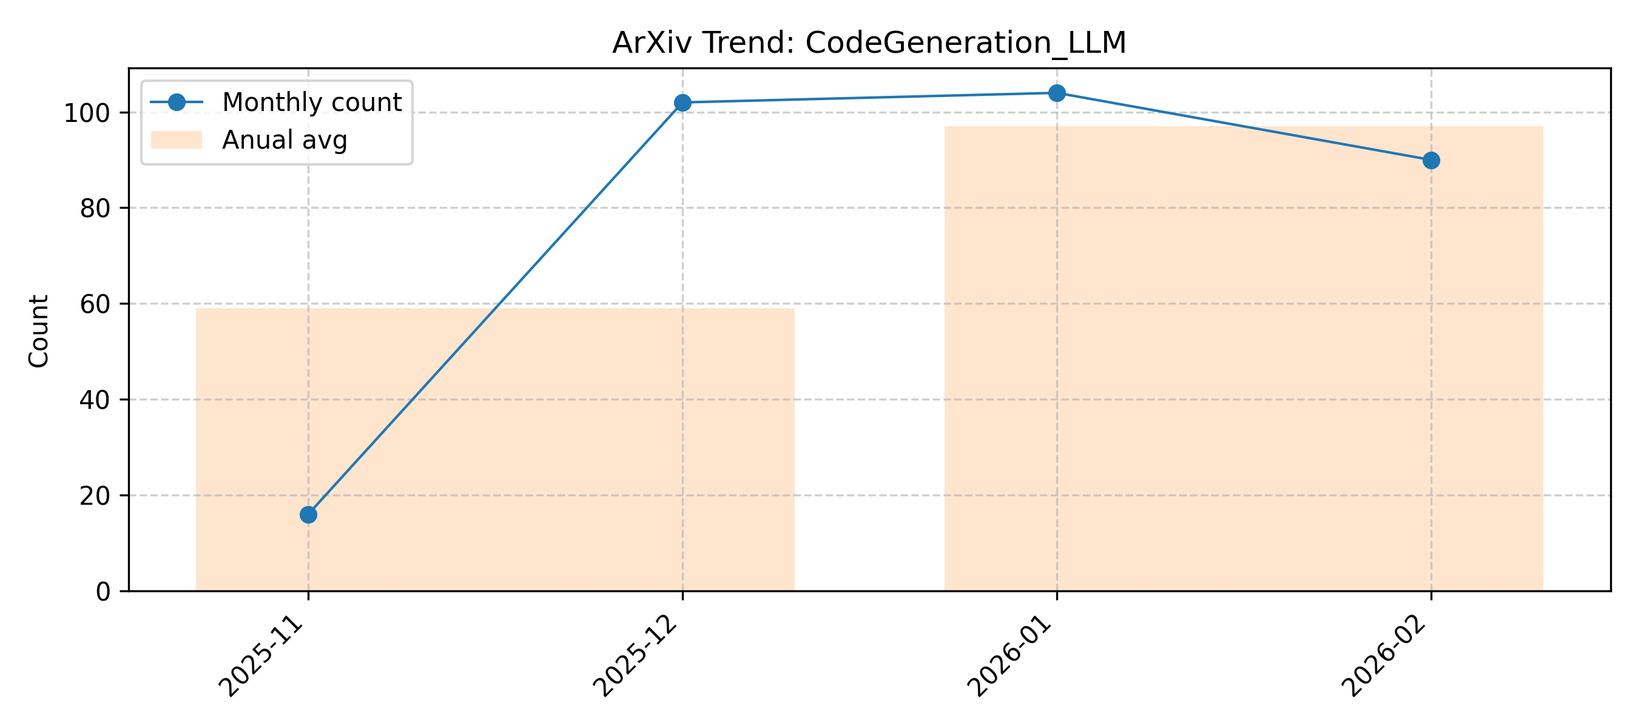
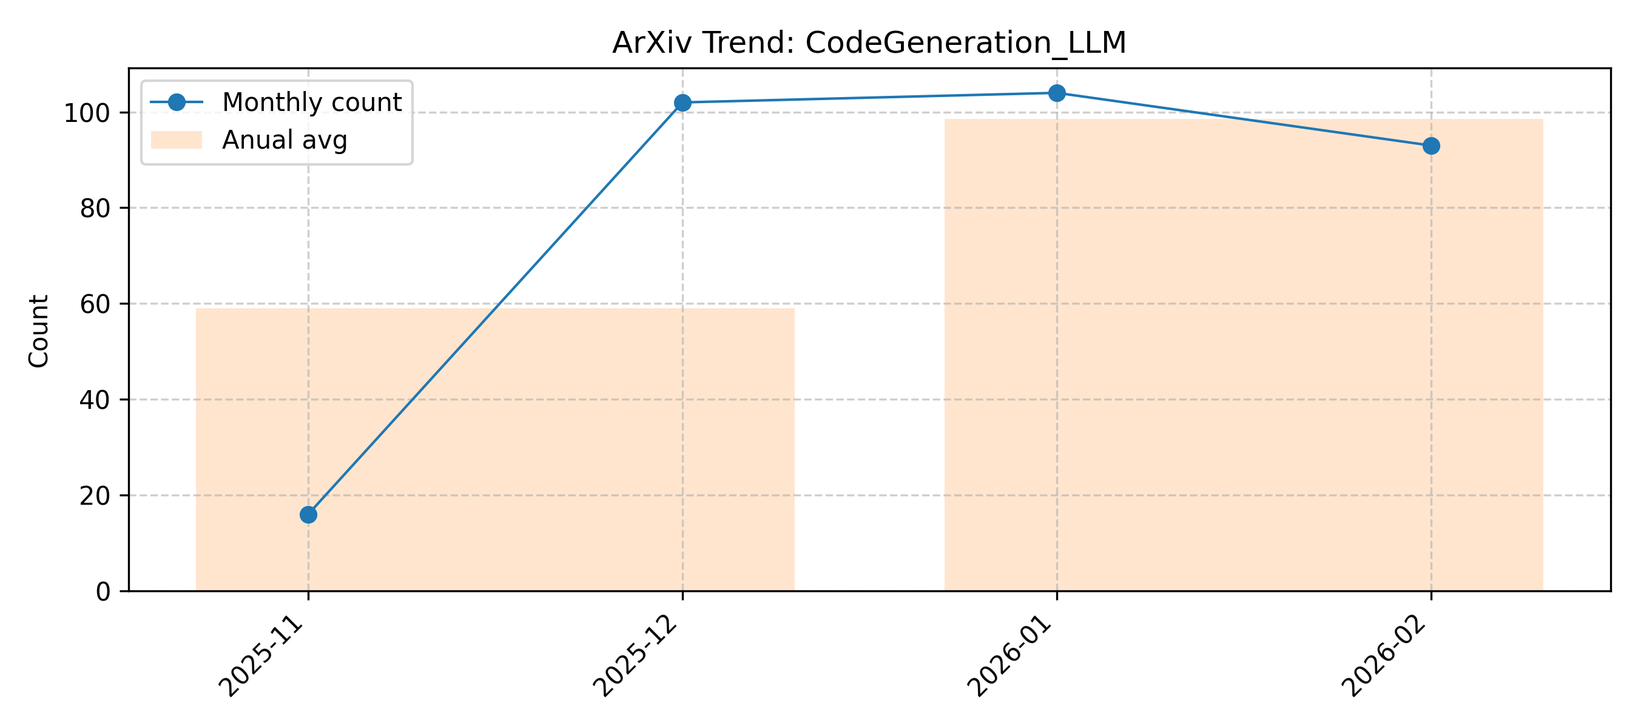
Auto update: 2026-02-28 08:00:01

Changed region(s): [[0.56, 0.1233, 0.9333, 0.2467]]

diff --git a/CodeGeneration_LLM.md b/CodeGeneration_LLM.md
@@ -1,6 +1,6 @@
 # CodeGeneration_LLM
 
-> Updated on 2026.02.27
+> Updated on 2026.02.28
 
 [🔙 Back to Index](README.md)
 
@@ -8,8 +8,11 @@
 
 | Date | Title | Categories | Abstract | PDF | Code |
 |:---|:---|:---|:---|:---|:---|
+|**2026-02-26**|**CL4SE: A Context Learning Benchmark For Software Engineering Tasks**|cs.SE| <details><summary>Full Abstract</summary>Context engineering has emerged as a pivotal paradigm for unlocking the potential of Large Language Models (LLMs) in Software Engineering (SE) tasks, enabling performance gains at test time without model fine-tuning. Despite its success, existing research lacks a systematic taxonomy of SE-specific context types and a dedicated benchmark to quantify the heterogeneous effects of different contexts across core SE workflows. To address this gap, we propose CL4SE (Context Learning for Software Engineering), a comprehensive benchmark featuring a fine-grained taxonomy of four SE-oriented context types (interpretable examples, project-specific context, procedural decision-making context, and positive & negative context), each mapped to a representative task (code generation, code summarization, code review, and patch correctness assessment). We construct high-quality datasets comprising over 13,000 samples from more than 30 open-source projects and evaluate five mainstream LLMs across nine metrics. Extensive experiments demonstrate that context learning yields an average performance improvement of 24.7% across all tasks. Specifically, procedural context boosts code review performance by up to 33% (Qwen3-Max), mixed positive-negative context improves patch assessment by 30% (DeepSeek-V3), project-specific context increases code summarization BLEU by 14.78% (GPT-Oss-120B), and interpretable examples enhance code generation PASS@1 by 5.72% (DeepSeek-V3). CL4SE establishes the first standardized evaluation framework for SE context learning, provides actionable empirical insights into task-specific context design, and releases a large-scale dataset to facilitate reproducible research in this domain.</details>|[2602.23047v1](http://arxiv.org/abs/2602.23047v1)| null|
+|**2026-02-25**|**BrepCoder: A Unified Multimodal Large Language Model for Multi-task B-rep Reasoning**|cs.LG| <details><summary>Full Abstract</summary>Recent advancements in deep learning have actively addressed complex challenges within the Computer-Aided Design (CAD) domain.However, most existing approaches rely on task-specifi c models requiring structural modifi cations for new tasks, and they predominantly focus on point clouds or images rather than the industry-standard Boundary Representation (B-rep) format. To address these limitations, we propose BrepCoder, a unifi ed Multimodal Large Language Model (MLLM) that performs diverse CAD tasks from B-rep inputs. By leveraging the code generation capabilities of Large Language Models (LLMs), we convert CAD modeling sequences into Python-like code and align them with B-rep. We then adopt a two-stage training strategy: First, pre-training on reverse engineering to learn geometric features and design logic. Second, eff ectively extending the model to various downstream tasks such as completion, error correction, and CAD-QA. Consequently, by interpreting B-rep as structural code, BrepCoder achieves superior generalization across diverse tasks, demonstrating its potential as a general-purpose CAD agent.</details>|[2602.22284v1](http://arxiv.org/abs/2602.22284v1)| null|
+|**2026-02-24**|**From Prompts to Performance: Evaluating LLMs for Task-based Parallel Code Generation**|cs.PL, cs.AI, cs.DC| <details><summary>Full Abstract</summary>Large Language Models (LLM) show strong abilities in code generation, but their skill in creating efficient parallel programs is less studied. This paper explores how LLMs generate task-based parallel code from three kinds of input prompts: natural language problem descriptions, sequential reference implementations, and parallel pseudo code. We focus on three programming frameworks: OpenMP Tasking, C++ standard parallelism, and the asynchronous many-task runtime HPX. Each framework offers different levels of abstraction and control for task execution. We evaluate LLM-generated solutions for correctness and scalability. Our results reveal both strengths and weaknesses of LLMs with regard to problem complexity and framework. Finally, we discuss what these findings mean for future LLM-assisted development in high-performance and scientific computing.</details>|[2602.22240v1](http://arxiv.org/abs/2602.22240v1)| null|
 |**2026-02-25**|**An Evaluation of Context Length Extrapolation in Long Code via Positional Embeddings and Efficient Attention**|cs.SE, cs.AI| <details><summary>Full Abstract</summary>The rapid advancement of large language models (LLMs) has led to a significant increase in automated tools in the software engineering, capable of performing various code-related tasks such as code generation, completion, and translation. Despite these advancements, its effectiveness is constrained by fixed context lengths, limiting its ability to generalize across long, domain-specific code sequences. To address this challenge, we investigate zero-shot, inference-only methods aimed at improving position encodings and optimizing attention mechanisms. Our goal is to provide a thorough analysis of current approaches that facilitate context length extrapolation in code, particularly in the context of long code completion tasks.</details>|[2602.21800v1](http://arxiv.org/abs/2602.21800v1)| null|
-|**2026-02-24**|**Why Pass@k Optimization Can Degrade Pass@1: Prompt Interference in LLM Post-training**|cs.LG, cs.AI| <details><summary>Full Abstract</summary>Pass@k is a widely used performance metric for verifiable large language model tasks, including mathematical reasoning, code generation, and short-answer reasoning. It defines success if any of $k$ independently sampled solutions passes a verifier. This multi-sample inference metric has motivated inference-aware fine-tuning methods that directly optimize pass@$k$. However, prior work reports a recurring trade-off: pass@k improves while pass@1 degrades under such methods. This trade-off is practically important because pass@1 often remains a hard operational constraint due to latency and cost budgets, imperfect verifier coverage, and the need for a reliable single-shot fallback. We study the origin of this trade-off and provide a theoretical characterization of when pass@k policy optimization can reduce pass@1 through gradient conflict induced by prompt interference. We show that pass@$k$ policy gradients can conflict with pass@1 gradients because pass@$k$ optimization implicitly reweights prompts toward low-success prompts; when these prompts are what we term negatively interfering, their upweighting can rotate the pass@k update direction away from the pass@1 direction. We illustrate our theoretical findings with large language model experiments on verifiable mathematical reasoning tasks.</details>|[2602.21189v1](http://arxiv.org/abs/2602.21189v1)| null|
+|**2026-02-26**|**Why Pass@k Optimization Can Degrade Pass@1: Prompt Interference in LLM Post-training**|cs.LG, cs.AI| <details><summary>Full Abstract</summary>Pass@k is a widely used performance metric for verifiable large language model tasks, including mathematical reasoning, code generation, and short-answer reasoning. It defines success if any of $k$ independently sampled solutions passes a verifier. This multi-sample inference metric has motivated inference-aware fine-tuning methods that directly optimize pass@$k$. However, prior work reports a recurring trade-off: pass@k improves while pass@1 degrades under such methods. This trade-off is practically important because pass@1 often remains a hard operational constraint due to latency and cost budgets, imperfect verifier coverage, and the need for a reliable single-shot fallback. We study the origin of this trade-off and provide a theoretical characterization of when pass@k policy optimization can reduce pass@1 through gradient conflict induced by prompt interference. We show that pass@$k$ policy gradients can conflict with pass@1 gradients because pass@$k$ optimization implicitly reweights prompts toward low-success prompts; when these prompts are what we term negatively interfering, their upweighting can rotate the pass@k update direction away from the pass@1 direction. We illustrate our theoretical findings with large language model experiments on verifiable mathematical reasoning tasks.</details>|[2602.21189v2](http://arxiv.org/abs/2602.21189v2)| null|
 |**2026-02-24**|**Unseen-Codebases-Domain Data Synthesis and Training Based on Code Graphs**|cs.SE| <details><summary>Full Abstract</summary>In the context of newly release software frameworks, large language models (LLMs) often exhibit poor performance and a high rate of hallucination, as they are not exposed to such environments during training. Although inference-time augmentation techniques such as retrieval-augmented generation (RAG) can partially mitigate hallucinations, knowledge injection through prompting alone is insufficient to enable models to fully understand the intrinsic relationships among different components of a codebase, or to reason about the correct compositions and apply. Although explicit knowledge injection can be achieved through post-training, compared with public code domains, unseen codebases typically provide only source code and lack large volumes of high-quality, usage-oriented code that can be directly leveraged as training data. Consequently, existing data synthesis approaches are insufficient to adequately capture unseen codebases usage scenarios when restricted to source code alone. To address these challenges, we propose UCD-Training, a two-stage training framework for reasoning-aware data synthesis grounded in a code graph constructed from unseen codebases. UCD-Training first parses the source code to build a code graph, then conducts dependency-preserving continued pretraining (CPT) using file-level dependency data, followed by graph-grounded supervised fine-tuning (SFT) on three types of synthesized data augmented with explicit reasoning traces: (1) single-hop relation reasoning data, (2) compositional API reasoning data, and (3) codebase utilization data. We further introduce a new benchmark, UnseenCodeBench, for code generation on unseen codebases and conduct comprehensive experiments across multiple codebases.</details>|[2602.20799v1](http://arxiv.org/abs/2602.20799v1)| null|
 |**2026-02-24**|**ID-LoRA: Efficient Low-Rank Adaptation Inspired by Matrix Interpolative Decomposition**|cs.CL| <details><summary>Full Abstract</summary>LoRA has become a universal Parameter-Efficient Fine-Tuning (PEFT) technique that equips Large Language Models (LLMs) to adapt quickly to new tasks. However, when these models are scaled up, even the latest LoRA variants still introduce considerable overhead in trainable parameters. Conversely, aggressively lowering the rank to curb this overhead markedly degrades performance in complex multi-task settings. We propose ID-LoRA, a novel PEFT framework that breaks the trade-off. Its core innovation lies in extracting and reusing clustered parameter groups from the pretrained weight matrix. These groups are then used to form multiple low-rank components, all of which share only a single initialized trainable low-rank matrix. This approach cuts the number of trainable parameters while keeping the model's capacity intact. We evaluate ID-LoRA on five diverse benchmarks: Mathematical Reasoning, Code Generation, MMLU, CommonsenseQA, and Safety Alignment. ID-LoRA outperforms both full fine-tuning and existing PEFT baselines (e.g., LoRA, DoRA, HydraLoRA) while using up to 46% fewer trainable parameters than the standard LoRA. In multi-task scenarios, it surpasses LoRA and its recent variants (e.g., DoRA and HydraLoRA) on both Code and MMLU tasks, yet requires only 54% of the trainable parameters demanded by the conventional LoRA.</details>|[2602.20727v1](http://arxiv.org/abs/2602.20727v1)| null|
 |**2026-02-23**|**CodeHacker: Automated Test Case Generation for Detecting Vulnerabilities in Competitive Programming Solutions**|cs.SE, cs.AI, cs.CR| <details><summary>Full Abstract</summary>The evaluation of Large Language Models (LLMs) for code generation relies heavily on the quality and robustness of test cases. However, existing benchmarks often lack coverage for subtle corner cases, allowing incorrect solutions to pass. To bridge this gap, we propose CodeHacker, an automated agent framework dedicated to generating targeted adversarial test cases that expose latent vulnerabilities in program submissions. Mimicking the hack mechanism in competitive programming, CodeHacker employs a multi-strategy approach, including stress testing, anti-hash attacks, and logic-specific targeting to break specific code submissions. To ensure the validity and reliability of these attacks, we introduce a Calibration Phase, where the agent iteratively refines its own Validator and Checker via self-generated adversarial probes before evaluating contestant code.Experiments demonstrate that CodeHacker significantly improves the True Negative Rate (TNR) of existing datasets, effectively filtering out incorrect solutions that were previously accepted. Furthermore, generated adversarial cases prove to be superior training data, boosting the performance of RL-trained models on benchmarks like LiveCodeBench.</details>|[2602.20213v1](http://arxiv.org/abs/2602.20213v1)| null|
@@ -17,7 +20,7 @@
 |**2026-02-23**|**Multi-CoLoR: Context-Aware Localization and Reasoning across Multi-Language Codebases**|cs.SE| <details><summary>Full Abstract</summary>Large language models demonstrate strong capabilities in code generation but struggle to navigate complex, multi-language repositories to locate relevant code. Effective code localization requires understanding both organizational context (e.g., historical issue-fix patterns) and structural relationships within heterogeneous codebases. Existing methods either (i) focus narrowly on single-language benchmarks, (ii) retrieve code across languages via shallow textual similarity, or (iii) assume no prior context. We present Multi-CoLoR, a framework for Context-aware Localization and Reasoning across Multi-Language codebases, which integrates organizational knowledge retrieval with graph-based reasoning to traverse complex software ecosystems. Multi-CoLoR operates in two stages: (i) a similar issue context (SIC) module retrieves semantically and organizationally related historical issues to prune the search space, and (ii) a code graph traversal agent (an extended version of LocAgent, a state-of-the-art localization framework) performs structural reasoning within C++ and QML codebases. Evaluations on a real-world enterprise dataset show that incorporating SIC reduces the search space and improves localization accuracy, and graph-based reasoning generalizes effectively beyond Python-only repositories. Combined, Multi-CoLoR improves Acc@5 over both lexical and graph-based baselines while reducing tool calls on an AMD codebase.</details>|[2602.19407v1](http://arxiv.org/abs/2602.19407v1)| null|
 |**2026-02-24**|**Automated Generation of Microfluidic Netlists using Large Language Models**|cs.AI| <details><summary>Full Abstract</summary>Microfluidic devices have emerged as powerful tools in various laboratory applications, but the complexity of their design limits accessibility for many practitioners. While progress has been made in microfluidic design automation (MFDA), a practical and intuitive solution is still needed to connect microfluidic practitioners with MFDA techniques. This work introduces the first practical application of large language models (LLMs) in this context, providing a preliminary demonstration. Building on prior research in hardware description language (HDL) code generation with LLMs, we propose an initial methodology to convert natural language microfluidic device specifications into system-level structural Verilog netlists. We demonstrate the feasibility of our approach by generating structural netlists for practical benchmarks representative of typical microfluidic designs with correct functional flow and an average syntactical accuracy of 88%.</details>|[2602.19297v2](http://arxiv.org/abs/2602.19297v2)| null|
 |**2026-02-22**|**ComUICoder: Component-based Reusable UI Code Generation for Complex Websites via Semantic Segmentation and Element-wise Feedback**|cs.SE| <details><summary>Full Abstract</summary>Multimodal Large Language Models (MLLMs) have demonstrated strong performance on the UI-to-code task, which aims to generate UI code from design mock-ups. However, when applied to long and complex websites, they often struggle with fragmented segmentation, redundant code generation for repetitive components, and frequent UI inconsistencies. To systematically investigate and address these challenges, we introduce ComUIBench, a new multi-page complex webpage benchmark with component annotations, designed to evaluate MLLMs' ability to generate reusable UI code in realistic website scenarios. Building upon this benchmark, we propose ComUICoder, a component-based UI code generation framework that emphasizes semantic-aware segmentation, code reuse, and fine-grained refinement. Specifically, ComUICoder incorporates (1) Hybrid Semantic-aware Block Segmentation for accurate UI semantic coherent block detection, (2) Visual-aware Graph-based Block Merge to consolidate structurally similar components within and across webpages for reusable implementation, and (3) Priority-based Element-wise Feedback to refine generated code and reduce element-level inconsistencies. Extensive experiments demonstrate that ComUICoder significantly improves overall generation quality and code reusability on complex multipage websites. Our datasets and code are publicly available at https://github.com/WebPAI/ComUICoder.</details>|[2602.19276v1](http://arxiv.org/abs/2602.19276v1)| null|
-|**2026-02-22**|**K-Search: LLM Kernel Generation via Co-Evolving Intrinsic World Model**|cs.AI| <details><summary>Full Abstract</summary>Optimizing GPU kernels is critical for efficient modern machine learning systems yet remains challenging due to the complex interplay of design factors and rapid hardware evolution. Existing automated approaches typically treat Large Language Models (LLMs) merely as stochastic code generators within heuristic-guided evolutionary loops. These methods often struggle with complex kernels requiring coordinated, multi-step structural transformations, as they lack explicit planning capabilities and frequently discard promising strategies due to inefficient or incorrect intermediate implementations. To address this, we propose Search via Co-Evolving World Model and build K-Search based on this method. By replacing static search heuristics with a co-evolving world model, our framework leverages LLMs' prior domain knowledge to guide the search, actively exploring the optimization space. This approach explicitly decouples high-level algorithmic planning from low-level program instantiation, enabling the system to navigate non-monotonic optimization paths while remaining resilient to temporary implementation defects. We evaluate K-Search on diverse, complex kernels from FlashInfer, including GQA, MLA, and MoE kernels. Our results show that K-Search significantly outperforms state-of-the-art evolutionary search methods, achieving an average 2.10x improvement and up to a 14.3x gain on complex MoE kernels. On the GPUMode TriMul task, K-Search achieves state-of-the-art performance on H100, reaching 1030us and surpassing both prior evolution and human-designed solutions.</details>|[2602.19128v1](http://arxiv.org/abs/2602.19128v1)| null|
+|**2026-02-26**|**K-Search: LLM Kernel Generation via Co-Evolving Intrinsic World Model**|cs.AI| <details><summary>Full Abstract</summary>Optimizing GPU kernels is critical for efficient modern machine learning systems yet remains challenging due to the complex interplay of design factors and rapid hardware evolution. Existing automated approaches typically treat Large Language Models (LLMs) merely as stochastic code generators within heuristic-guided evolutionary loops. These methods often struggle with complex kernels requiring coordinated, multi-step structural transformations, as they lack explicit planning capabilities and frequently discard promising strategies due to inefficient or incorrect intermediate implementations. To address this, we propose Search via Co-Evolving World Model and build K-Search based on this method. By replacing static search heuristics with a co-evolving world model, our framework leverages LLMs' prior domain knowledge to guide the search, actively exploring the optimization space. This approach explicitly decouples high-level algorithmic planning from low-level program instantiation, enabling the system to navigate non-monotonic optimization paths while remaining resilient to temporary implementation defects. We evaluate K-Search on diverse, complex kernels from FlashInfer, including GQA, MLA, and MoE kernels. Our results show that K-Search significantly outperforms state-of-the-art evolutionary search methods, achieving an average 2.10x improvement and up to a 14.3x gain on complex MoE kernels. On the GPUMode TriMul task, K-Search achieves state-of-the-art performance on H100, reaching 1030us and surpassing both prior evolution and human-designed solutions.</details>|[2602.19128v2](http://arxiv.org/abs/2602.19128v2)| null|
 |**2026-02-21**|**Operational Robustness of LLMs on Code Generation**|cs.SE, cs.AI, cs.LG| <details><summary>Full Abstract</summary>It is now common practice in software development for large language models (LLMs) to be used to generate program code. It is desirable to evaluate the robustness of LLMs for this usage. This paper is concerned in particular with how sensitive LLMs are to variations in descriptions of the coding tasks. However, existing techniques for evaluating this robustness are unsuitable for code generation because the input data space of natural language descriptions is discrete. To address this problem, we propose a robustness evaluation method called scenario domain analysis, which aims to find the expected minimal change in the natural language descriptions of coding tasks that would cause the LLMs to produce incorrect outputs. We have formally proved the theoretical properties of the method and also conducted extensive experiments to evaluate the robustness of four state-of-the-art art LLMs: Gemini-pro, Codex, Llamma2 and Falcon 7B, and have found that we are able to rank these with confidence from best to worst. Moreover, we have also studied how robustness varies in different scenarios, including the variations with the topic of the coding task and with the complexity of its sample solution, and found that robustness is lower for more complex tasks and also lower for more advanced topics, such as multi-threading and data structures.</details>|[2602.18800v1](http://arxiv.org/abs/2602.18800v1)| null|
 |**2026-02-20**|**Non-Interfering Weight Fields: Treating Model Parameters as a Continuously Extensible Function**|cs.LG, cs.AI| <details><summary>Full Abstract</summary>Large language models store all learned knowledge in a single, fixed weight vector. Teaching a model new capabilities requires modifying those same weights, inevitably degrading previously acquired knowledge. This fundamental limitation, known as catastrophic forgetting, has resisted principled solutions for decades. Existing approaches treat weights as immutable artifacts that must be protected through techniques like regularization heuristics, replay buffers, or isolated adapter modules. The problem is none of these provide a structural guarantee against forgetting. In this work, we propose Non-Interfering Weight Fields (NIWF), a framework that replaces the fixed weight paradigm with a learned function that generates weight configurations on demand from a continuous capability coordinate space. After training on a task, we commit the occupied coordinate region by snapshotting the fields outputs on anchor points to enforce a functional lock during all future training. We validate NIWF on sequential instructionfollowing and code generation tasks using Mistral-7B, demonstrating zero forgetting on committed tasks with competitive perplexity on new tasks. The framework introduces the notion of software-like versioning for neural network intelligence, where capabilities can be committed, extended, composed, and rolled back without retraining.</details>|[2602.18628v1](http://arxiv.org/abs/2602.18628v1)| null|
 |**2026-02-20**|**LAPIS: Lightweight API Specification for Intelligent Systems**|cs.SE| <details><summary>Full Abstract</summary>Large Language Models (LLMs) increasingly serve as consumers of API specifications, whether for code generation, autonomous agent interaction, or API-assisted reasoning. The de facto standard for API description, OpenAPI, was designed for documentation tools and code generators, resulting in substantial token overhead when used as LLM context.   We present LAPIS (Lightweight API Specification for Intelligent Systems), a domain-specific format optimized for LLM consumption that preserves the semantic information necessary for API reasoning while minimizing token usage. Through empirical evaluation against five real-world production API specifications including GitHub (1,080 endpoints), Twilio (197 endpoints), DigitalOcean (545 endpoints), Petstore, and HTTPBin we demonstrate an average token reduction of 85.5% compared to OpenAPI YAML and 88.6% compared to OpenAPI JSON, measured with the cl100k_base tokenizer. LAPIS introduces domain-specific structural innovations, including centralized error definitions, webhook trigger conditions, structured rate limit descriptions, and operation flow declarations information that OpenAPI either duplicates redundantly or cannot represent at all.   The format is fully convertible from OpenAPI 3.x via an automated converter, requires no special parser for LLM consumption, and is released as an open specification under CC BY 4.0.</details>|[2602.18541v1](http://arxiv.org/abs/2602.18541v1)| null|

diff --git a/MA-CoEvo.md b/MA-CoEvo.md
@@ -1,6 +1,6 @@
 # MA-CoEvo
 
-> Updated on 2026.02.27
+> Updated on 2026.02.28
 
 [🔙 Back to Index](README.md)
 
@@ -9,7 +9,7 @@
 | Date | Title | Categories | Abstract | PDF | Code |
 |:---|:---|:---|:---|:---|:---|
 |**2026-02-24**|**Tool-R0: Self-Evolving LLM Agents for Tool-Learning from Zero Data**|cs.LG| <details><summary>Full Abstract</summary>Large language models (LLMs) are becoming the foundation for autonomous agents that can use tools to solve complex tasks. Reinforcement learning (RL) has emerged as a common approach for injecting such agentic capabilities, but typically under tightly controlled training setups. It often depends on carefully constructed task-solution pairs and substantial human supervision, which creates a fundamental obstacle to open-ended self-evolution toward superintelligent systems. In this paper, we propose Tool-R0 framework for training general purpose tool-calling agents from scratch with self-play RL, under a zero-data assumption. Initialized from the same base LLM, Tool-R0 co-evolves a Generator and a Solver with complementary rewards: one proposes targeted challenging tasks at the other's competence frontier and the other learns to solve them with real-world tool calls. This creates a self-evolving cycle that requires no pre-existing tasks or datasets. Evaluation on different tool-use benchmarks show that Tool-R0 yields 92.5 relative improvement over the base model and surpasses fully supervised tool-calling baselines under the same setting. Our work further provides empirical insights into self-play LLM agents by analyzing co-evolution, curriculum dynamics, and scaling behavior.</details>|[2602.21320v1](http://arxiv.org/abs/2602.21320v1)| null|
-|**2026-02-22**|**K-Search: LLM Kernel Generation via Co-Evolving Intrinsic World Model**|cs.AI| <details><summary>Full Abstract</summary>Optimizing GPU kernels is critical for efficient modern machine learning systems yet remains challenging due to the complex interplay of design factors and rapid hardware evolution. Existing automated approaches typically treat Large Language Models (LLMs) merely as stochastic code generators within heuristic-guided evolutionary loops. These methods often struggle with complex kernels requiring coordinated, multi-step structural transformations, as they lack explicit planning capabilities and frequently discard promising strategies due to inefficient or incorrect intermediate implementations. To address this, we propose Search via Co-Evolving World Model and build K-Search based on this method. By replacing static search heuristics with a co-evolving world model, our framework leverages LLMs' prior domain knowledge to guide the search, actively exploring the optimization space. This approach explicitly decouples high-level algorithmic planning from low-level program instantiation, enabling the system to navigate non-monotonic optimization paths while remaining resilient to temporary implementation defects. We evaluate K-Search on diverse, complex kernels from FlashInfer, including GQA, MLA, and MoE kernels. Our results show that K-Search significantly outperforms state-of-the-art evolutionary search methods, achieving an average 2.10x improvement and up to a 14.3x gain on complex MoE kernels. On the GPUMode TriMul task, K-Search achieves state-of-the-art performance on H100, reaching 1030us and surpassing both prior evolution and human-designed solutions.</details>|[2602.19128v1](http://arxiv.org/abs/2602.19128v1)| null|
+|**2026-02-26**|**K-Search: LLM Kernel Generation via Co-Evolving Intrinsic World Model**|cs.AI| <details><summary>Full Abstract</summary>Optimizing GPU kernels is critical for efficient modern machine learning systems yet remains challenging due to the complex interplay of design factors and rapid hardware evolution. Existing automated approaches typically treat Large Language Models (LLMs) merely as stochastic code generators within heuristic-guided evolutionary loops. These methods often struggle with complex kernels requiring coordinated, multi-step structural transformations, as they lack explicit planning capabilities and frequently discard promising strategies due to inefficient or incorrect intermediate implementations. To address this, we propose Search via Co-Evolving World Model and build K-Search based on this method. By replacing static search heuristics with a co-evolving world model, our framework leverages LLMs' prior domain knowledge to guide the search, actively exploring the optimization space. This approach explicitly decouples high-level algorithmic planning from low-level program instantiation, enabling the system to navigate non-monotonic optimization paths while remaining resilient to temporary implementation defects. We evaluate K-Search on diverse, complex kernels from FlashInfer, including GQA, MLA, and MoE kernels. Our results show that K-Search significantly outperforms state-of-the-art evolutionary search methods, achieving an average 2.10x improvement and up to a 14.3x gain on complex MoE kernels. On the GPUMode TriMul task, K-Search achieves state-of-the-art performance on H100, reaching 1030us and surpassing both prior evolution and human-designed solutions.</details>|[2602.19128v2](http://arxiv.org/abs/2602.19128v2)| null|
 |**2026-02-17**|**Evolutionary Systems Thinking -- From Equilibrium Models to Open-Ended Adaptive Dynamics**|q-bio.PE, cs.NE, econ.TH| <details><summary>Full Abstract</summary>Complex change is often described as "evolutionary" in economics, policy, and technology, yet most system dynamics models remain constrained to fixed state spaces and equilibrium-seeking behavior. This paper argues that evolutionary dynamics should be treated as a core system-thinking problem rather than as a biological metaphor. We introduce Stability-Driven Assembly (SDA) as a minimal, non-equilibrium framework in which stochastic interactions combined with differential persistence generate endogenous selection without genes, replication, or predefined fitness functions. In SDA, longer-lived patterns accumulate in the population, biasing future interactions and creating feedback between population composition and system dynamics. This feedback yields fitness-proportional sampling as an emergent property, realizing a natural genetic algorithm driven solely by stability. Using SDA, we demonstrate why equilibrium-constrained models, even when simulated numerically, cannot exhibit open-ended evolution: evolutionary systems require population-dependent, non-stationary dynamics in which structure and dynamics co-evolve. We conclude by discussing implications for system dynamics, economics, and policy modeling, and outline how agent-based and AI-enabled approaches may support evolutionary models capable of sustained novelty and structural emergence.</details>|[2602.15957v1](http://arxiv.org/abs/2602.15957v1)| null|
 |**2026-02-13**|**Self-EvolveRec: Self-Evolving Recommender Systems with LLM-based Directional Feedback**|cs.IR, cs.AI| <details><summary>Full Abstract</summary>Traditional methods for automating recommender system design, such as Neural Architecture Search (NAS), are often constrained by a fixed search space defined by human priors, limiting innovation to pre-defined operators. While recent LLM-driven code evolution frameworks shift fixed search space target to open-ended program spaces, they primarily rely on scalar metrics (e.g., NDCG, Hit Ratio) that fail to provide qualitative insights into model failures or directional guidance for improvement. To address this, we propose Self-EvolveRec, a novel framework that establishes a directional feedback loop by integrating a User Simulator for qualitative critiques and a Model Diagnosis Tool for quantitative internal verification. Furthermore, we introduce a Diagnosis Tool - Model Co-Evolution strategy to ensure that evaluation criteria dynamically adapt as the recommendation architecture evolves. Extensive experiments demonstrate that Self-EvolveRec significantly outperforms state-of-the-art NAS and LLM-driven code evolution baselines in both recommendation performance and user satisfaction. Our code is available at https://github.com/Sein-Kim/self_evolverec.</details>|[2602.12612v1](http://arxiv.org/abs/2602.12612v1)| null|
 |**2026-02-12**|**Sci-CoE: Co-evolving Scientific Reasoning LLMs via Geometric Consensus with Sparse Supervision**|cs.AI| <details><summary>Full Abstract</summary>Large language models (LLMs) have demonstrated exceptional reasoning capabilities, and co-evolving paradigms have shown promising results in domains such as code and math. However, in scientific reasoning tasks, these models remain fragile due to unreliable solution evaluation and limited diversity in verification strategies. In this work, we propose Sci-CoE, a two-stage scientific co-evolving framework that enables models to self-evolve as both solver and verifier through a transition from sparse supervision to unsupervised learning. In the first stage, the model uses a small set of annotated data to establish fundamental correctness judgment anchors for the Verifier. In the second stage, we introduce a geometric reward mechanism that jointly considers consensus, reliability, and diversity, driving large-scale self-iteration on unlabeled data. Experiments on several general scientific benchmarks demonstrate that Sci-CoE enhances complex reasoning capabilities and exhibits strong scalability, facilitating the construction of more robust and diverse evaluation systems. Codes are available at https://github.com/InternScience/Sci-CoE.</details>|[2602.12164v1](http://arxiv.org/abs/2602.12164v1)| null|

diff --git a/README.md b/README.md
@@ -1,6 +1,6 @@
 # Daily ArXiv Papers
 
-> Last Updated: 2026.02.27
+> Last Updated: 2026.02.28
 
 This project provides daily updates on ArXiv papers regarding Multi-Agent LLMs, GUI Testing, and Code Generation. It builds upon the work of @bansky-cl, with refinements by @bbc00710086, and is currently deployed and maintained by zzz.
 

diff --git a/GUI_LLM_RL_MA.md b/GUI_LLM_RL_MA.md
@@ -1,6 +1,6 @@
 # GUI_LLM_RL_MA
 
-> Updated on 2026.02.27
+> Updated on 2026.02.28
 
 [🔙 Back to Index](README.md)
 

diff --git a/MA-CoEvo-RL.md b/MA-CoEvo-RL.md
@@ -1,6 +1,6 @@
 # MA-CoEvo-RL
 
-> Updated on 2026.02.27
+> Updated on 2026.02.28
 
 [🔙 Back to Index](README.md)
 
